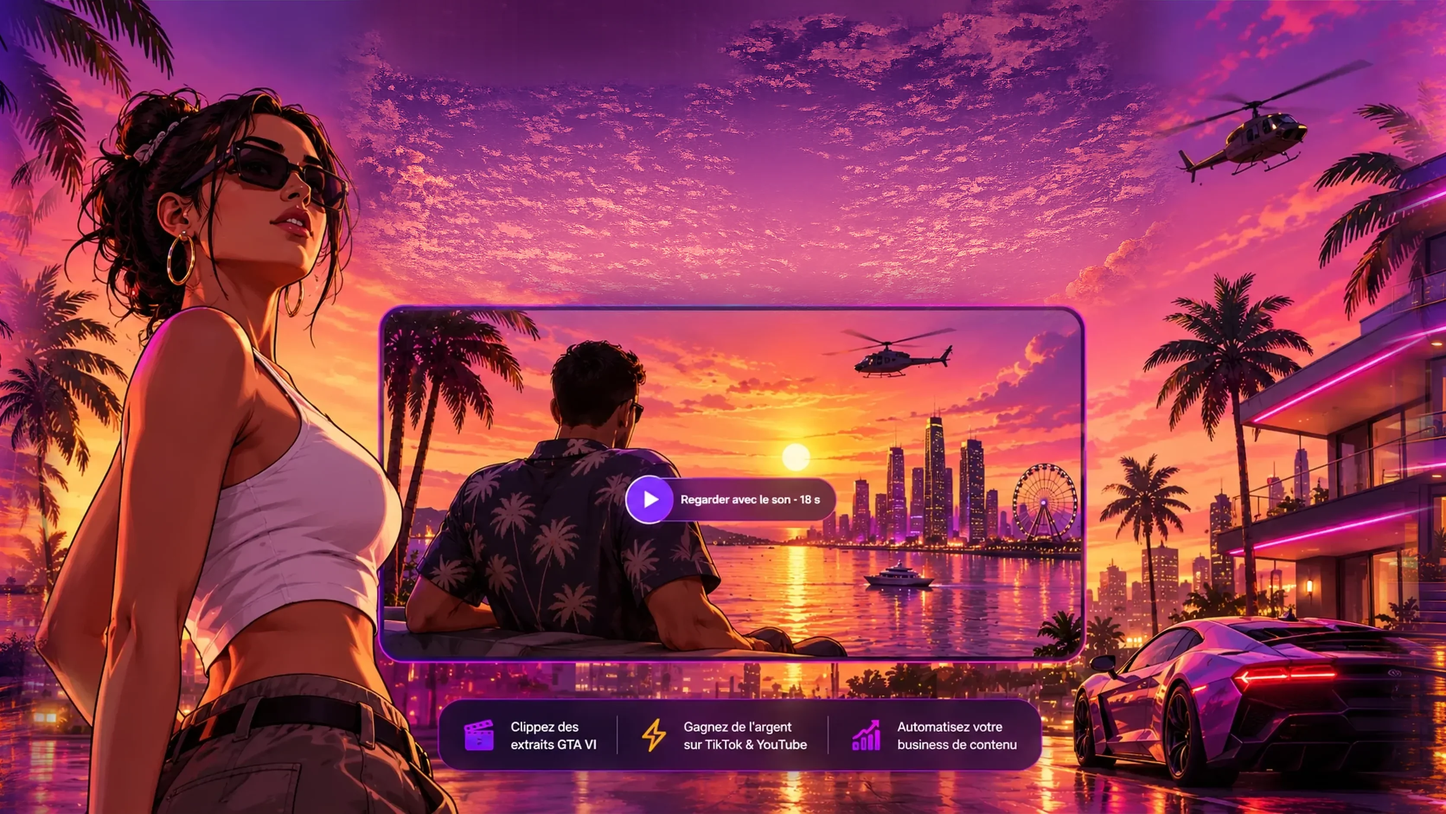
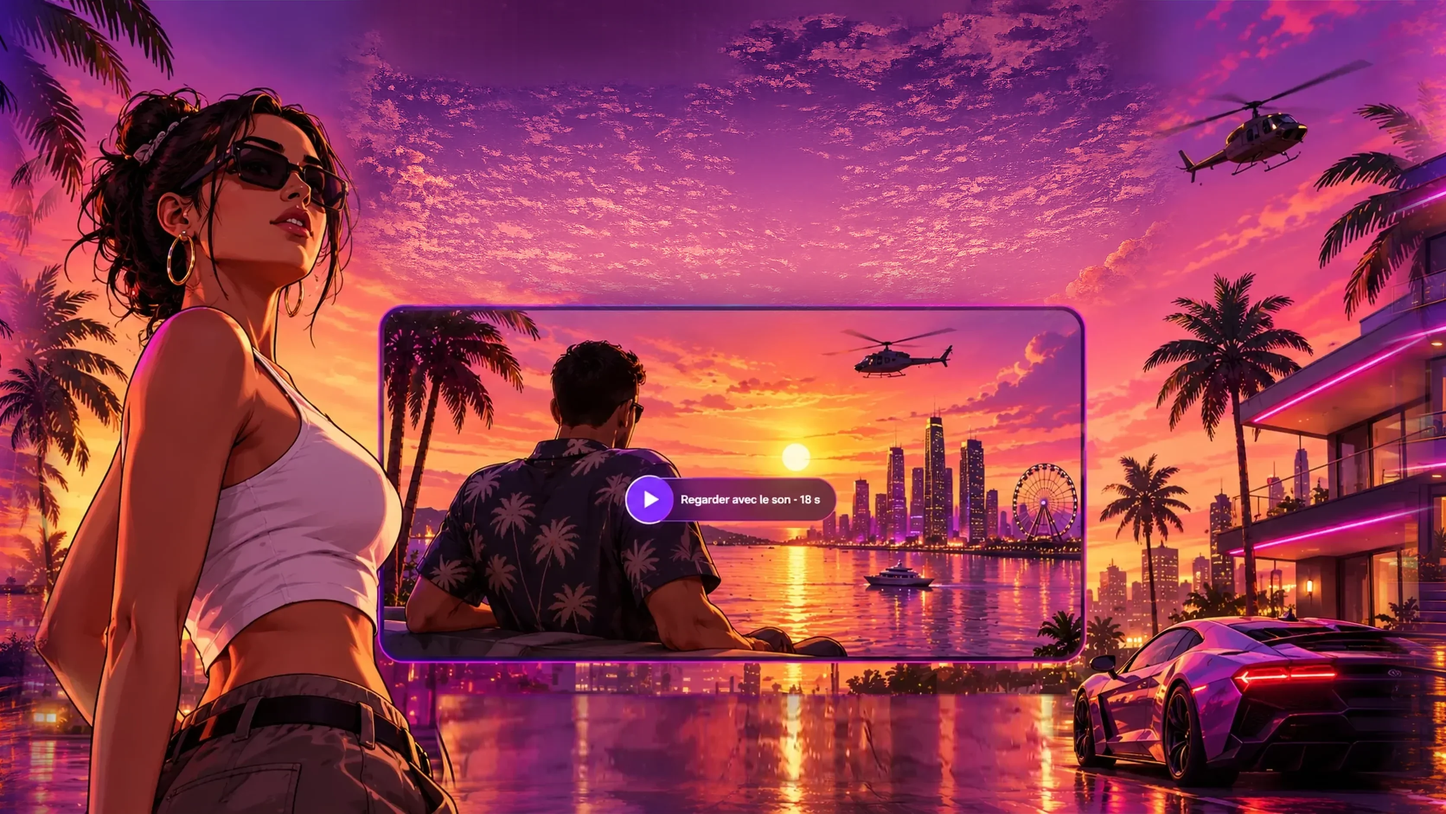
Landing hero: promises bar removed, the drawn box under it erased from the artwork (wet street continues)
Claude-Session: https://claude.ai/code/session_01Fc3ixor6jDNq2ZXfJ2QyPD

Changed region(s): [[0.2799, 0.8321, 0.7464, 0.9862]]

diff --git a/src/components/landing/Hero.tsx b/src/components/landing/Hero.tsx
@@ -1,4 +1,4 @@
-import { ArrowRight, BarChart3, Clapperboard, Play, Zap } from 'lucide-react';
+import { ArrowRight, Play, Zap } from 'lucide-react';
 import { useState } from 'react';
 import { RESULT_HIGHLIGHTS } from '@/data/results';
 import { SHOWCASE_FRUIT, type ShowcaseVideo } from '@/data/showcase';
@@ -12,12 +12,6 @@ import { VideoCard } from './VideoCard';
 import { VideoLightbox } from './VideoLightbox';
 import { StartLink } from './StartLink';
 import { PromoVideo } from './PromoVideo';
-
-/** Neon-city art direction: 3 promises under the film (original illustrations, no game brand). */
-const PROMISES = {
-  fr: [[Clapperboard, 'Clippe tes parties', 'de jeux vidéo'], [Zap, 'Gagne de l’argent', 'sur TikTok & YouTube'], [BarChart3, 'Automatise ton', 'business de contenu']],
-  en: [[Clapperboard, 'Clip your best', 'gaming moments'], [Zap, 'Earn money', 'on TikTok and YouTube'], [BarChart3, 'Automate your', 'content business']],
-} as const;
 
 const FAN = [
   { tilt: -6, y: 18 }, { tilt: -3, y: 4 }, { tilt: 0, y: -6 }, { tilt: 3, y: 4 }, { tilt: 6, y: 18 },
@@ -58,15 +52,6 @@ export function Hero() {
             <PromoVideo className="absolute text-left" poster="/landing/city/promo-frame.webp" neon
               frameClassName="h-full rounded-[1.2cqw] ring-1 ring-white/10" videoClassName="h-full w-full object-cover"
               style={{ left: '26.2%', top: '37.6%', width: '48.9%', height: '43.5%' }} />
-            <ul className="absolute grid grid-cols-3 items-center divide-x divide-white/10 overflow-hidden rounded-full border border-white/15 bg-[#12081f]/80 shadow-[0_1.2cqw_3cqw_-1cqw_rgba(0,0,0,0.65),inset_0_1px_0_rgba(255,255,255,0.14)] backdrop-blur-2xl backdrop-saturate-150"
-              style={{ left: '29.9%', top: '85.4%', width: '42.7%', height: '9.7%' }}>
-              {PROMISES.fr.map(([Icon, a, b]) => (
-                <li key={a} className="flex h-full items-center justify-center gap-[0.8cqw] px-[0.6cqw]">
-                  <span className="grid h-[2.5cqw] w-[2.5cqw] shrink-0 place-items-center rounded-full bg-gradient-to-br from-violet-500 to-fuchsia-600 shadow-[0_0_1.2cqw_-0.2cqw_rgba(217,70,239,0.8)]"><Icon className="h-[1.25cqw] w-[1.25cqw] text-white" aria-hidden /></span>
-                  <span className="whitespace-nowrap text-[0.95cqw] leading-[1.25] text-white/75"><span className="block font-semibold text-white">{a}</span>{b}</span>
-                </li>
-              ))}
-            </ul>
           </div>
         </div>
       )}
@@ -91,14 +76,6 @@ export function Hero() {
           </StartLink>
           <PromoVideo className="relative mx-auto mt-6 max-w-3xl text-left" poster="/landing/city/promo-frame.webp" neon
             frameClassName="ring-1 ring-white/10" videoClassName="aspect-video w-full object-cover" />
-          <ul className="mx-auto mt-4 grid max-w-2xl grid-cols-1 gap-3 rounded-2xl border border-white/15 bg-[#12081f]/80 p-4 text-left shadow-[inset_0_1px_0_rgba(255,255,255,0.12)] backdrop-blur-2xl sm:grid-cols-3 sm:gap-0 sm:divide-x sm:divide-white/10">
-            {PROMISES[lang].map(([Icon, a, b]) => (
-              <li key={a} className="flex items-center gap-3 sm:justify-center sm:px-3">
-                <span className="grid h-10 w-10 shrink-0 place-items-center rounded-full bg-gradient-to-br from-violet-500 to-fuchsia-600 shadow-[0_0_16px_-4px_rgba(217,70,239,0.8)]"><Icon className="h-5 w-5 text-white" aria-hidden /></span>
-                <span className="text-sm leading-tight text-white/75"><span className="block font-semibold text-white">{a}</span>{b}</span>
-              </li>
-            ))}
-          </ul>
         </div>
       </div>
       <div className="relative mx-auto max-w-6xl px-4 pb-12 text-center md:px-6">
